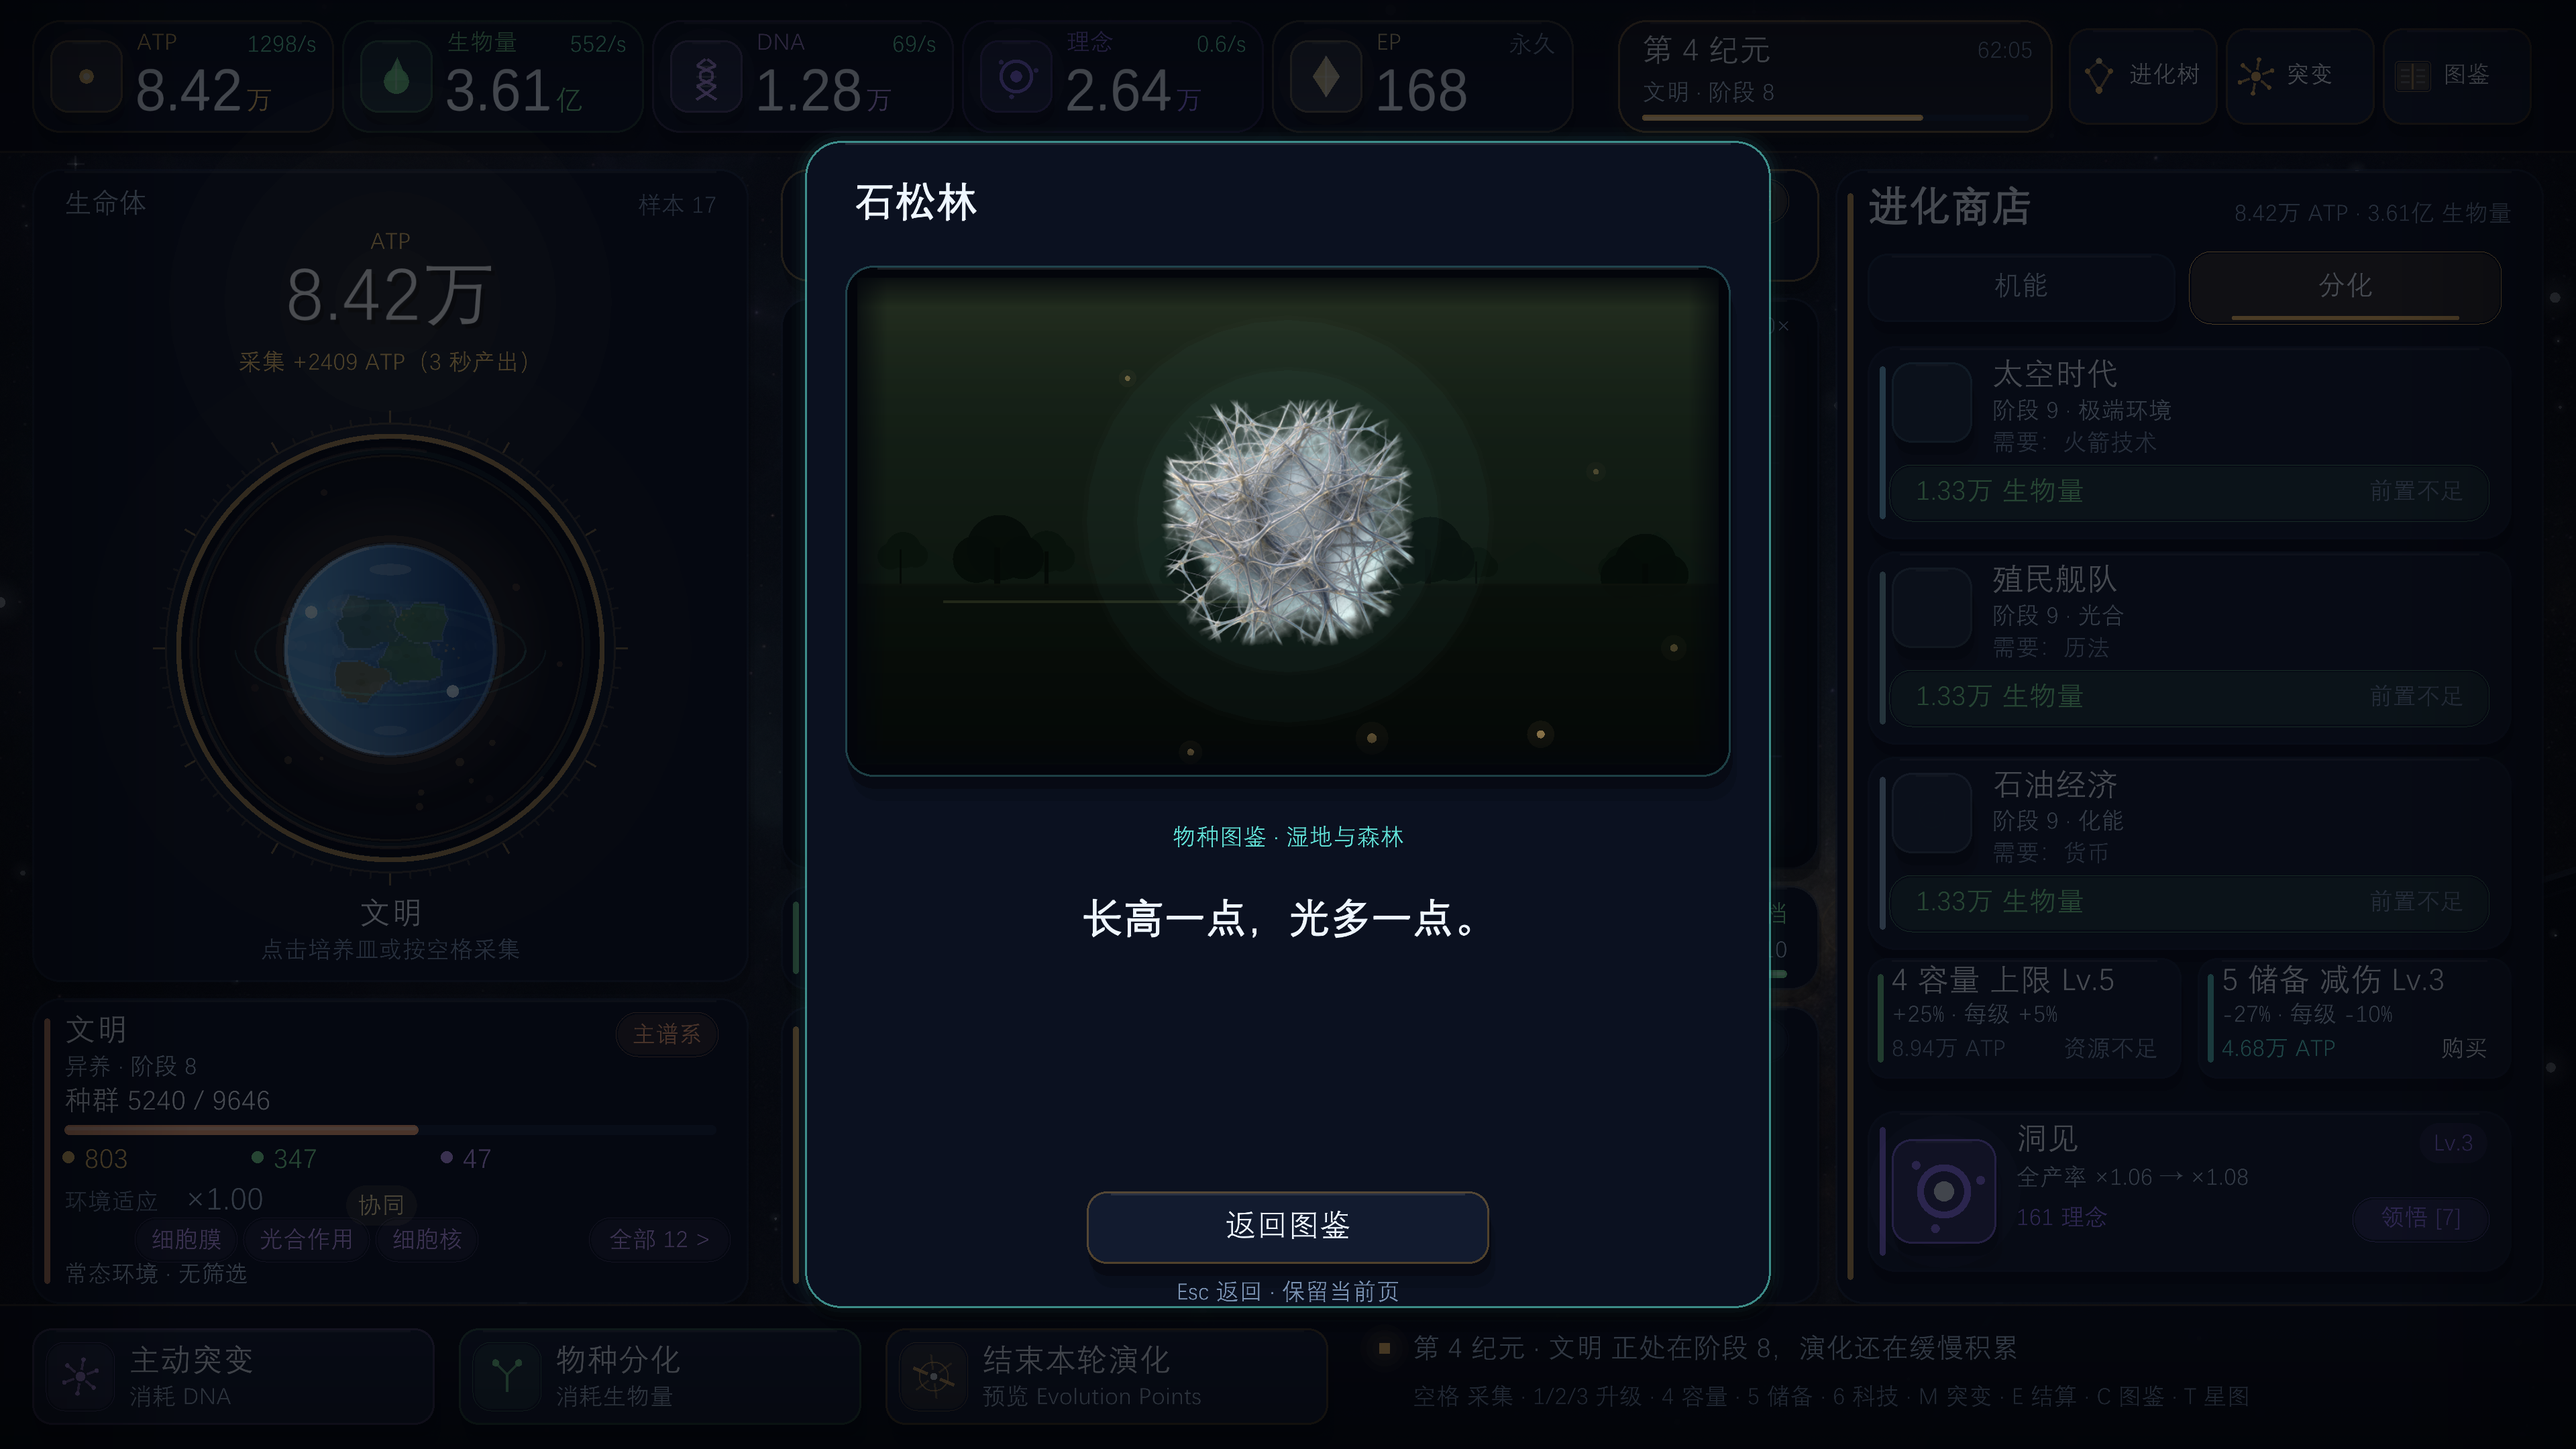
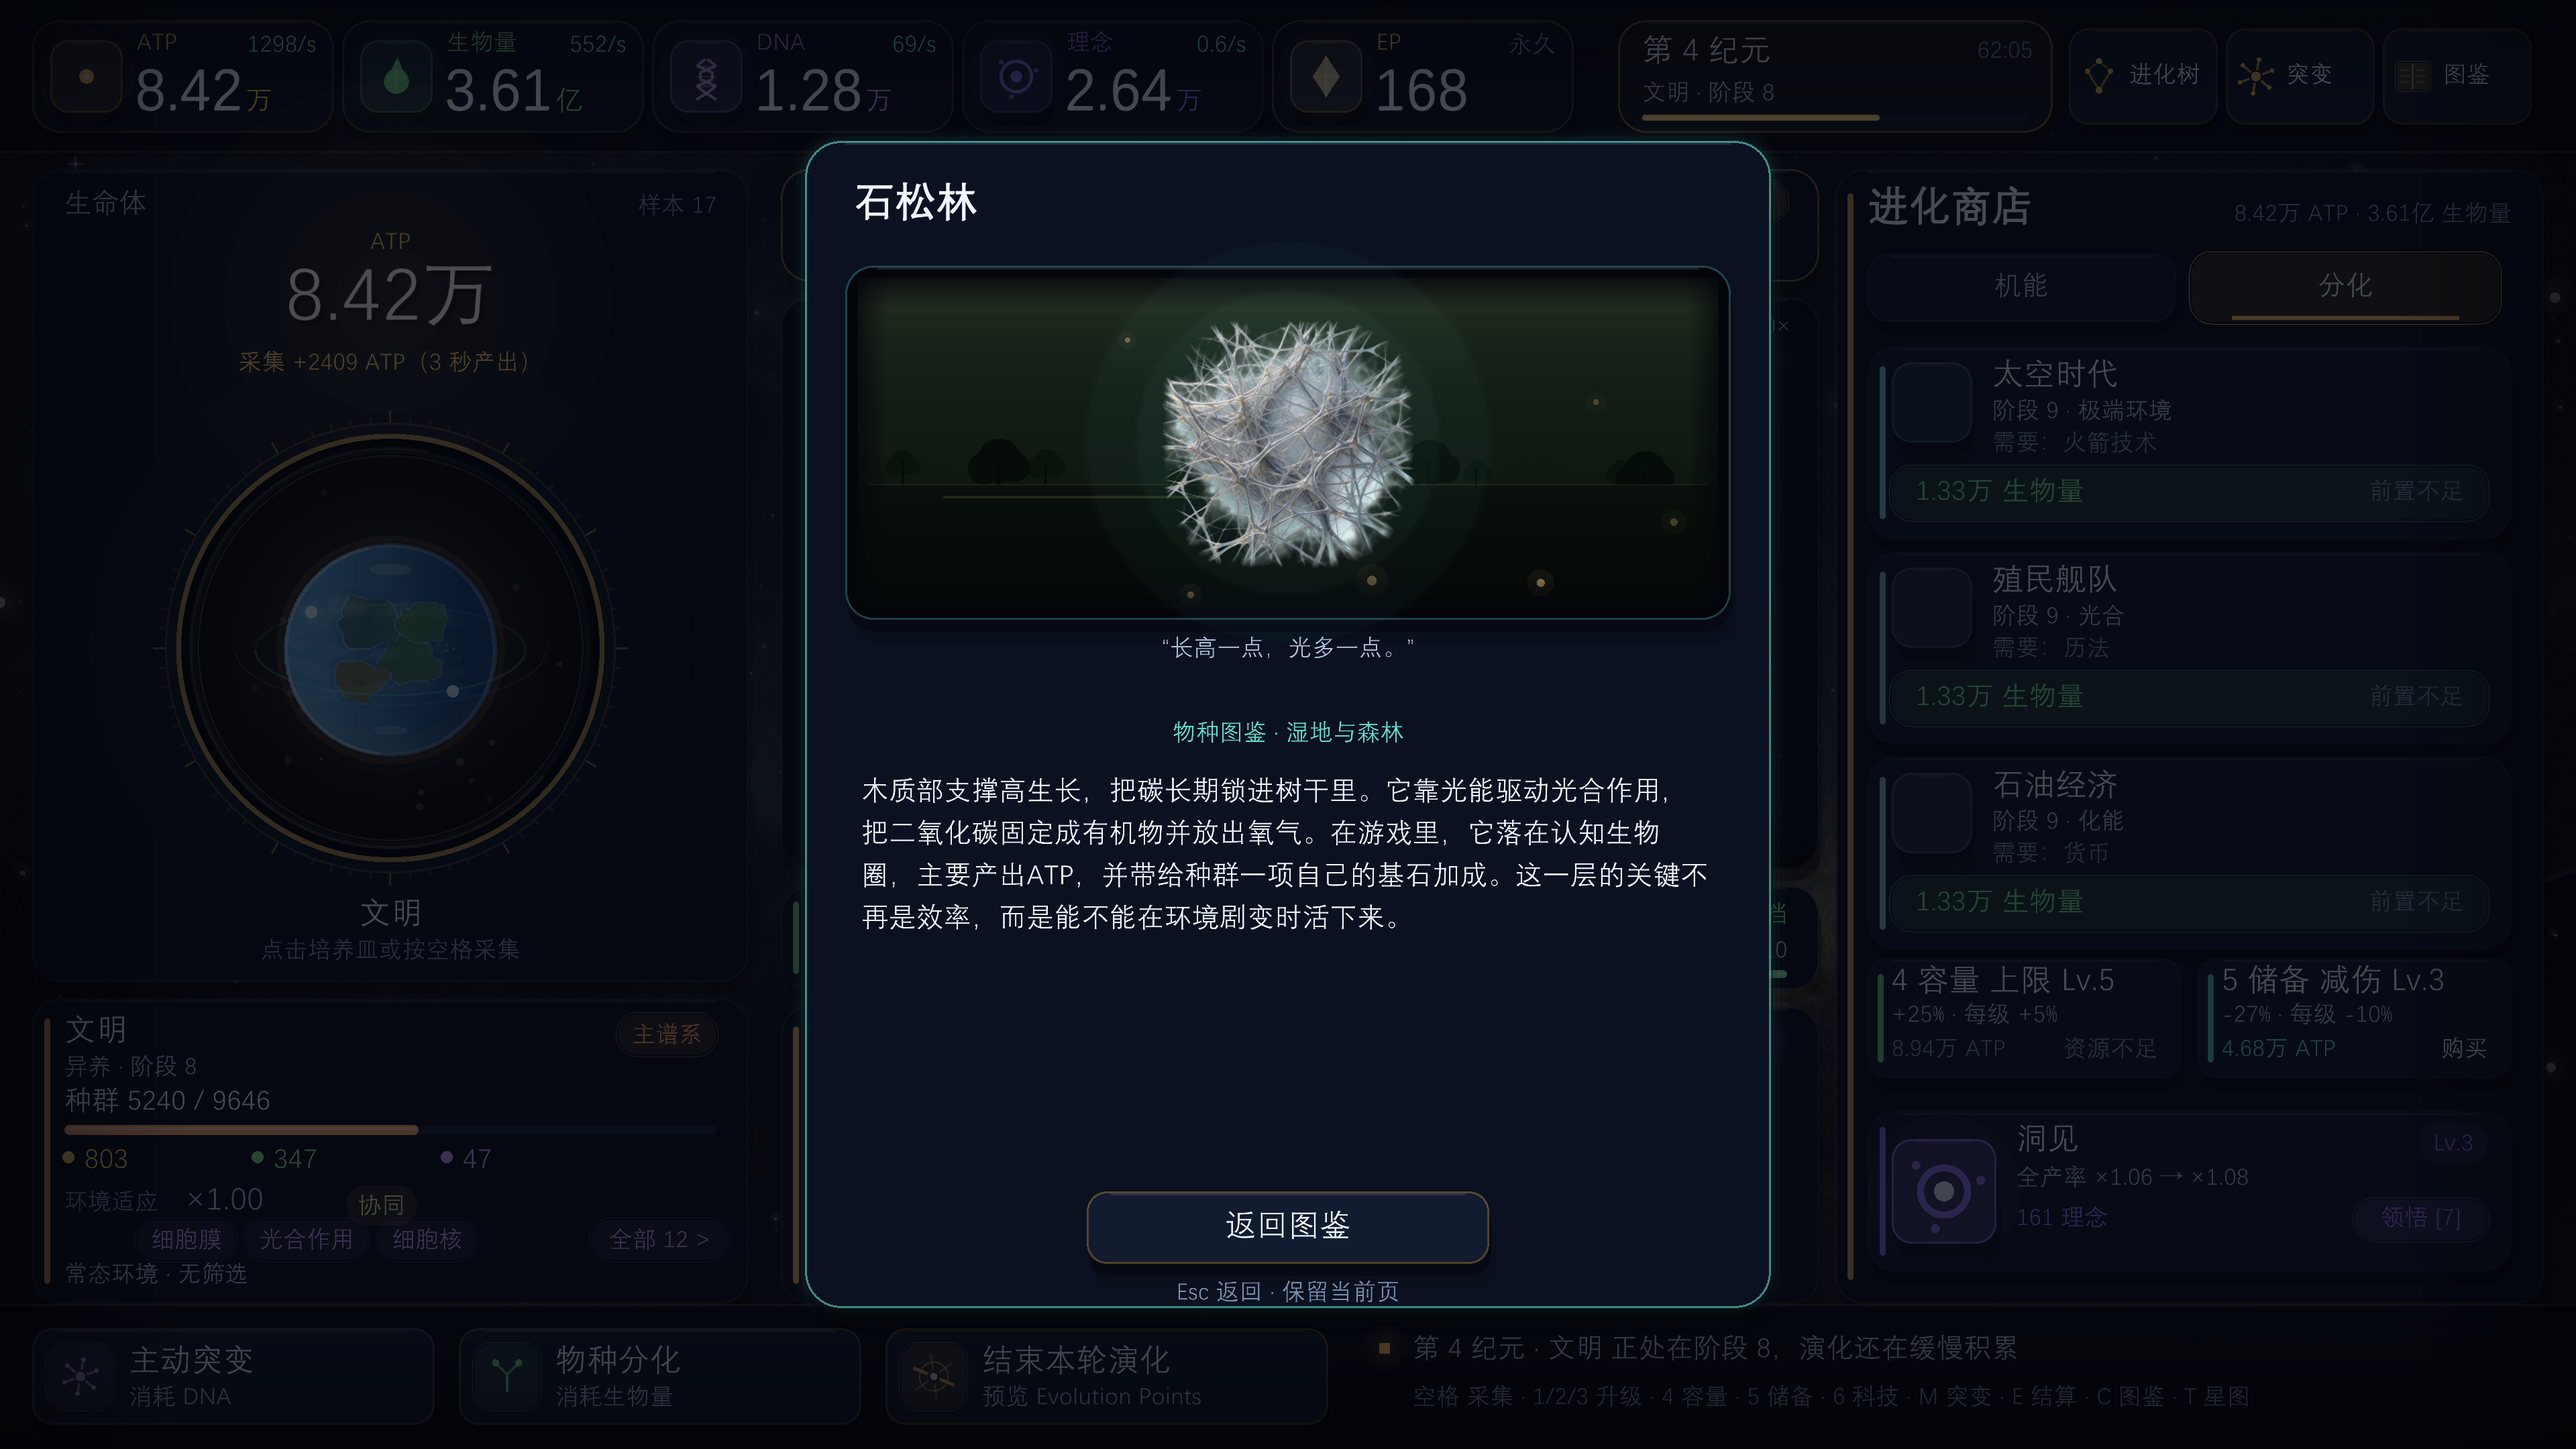
fix(ui): 折行补行首禁则，同步图鉴科普改版
同步远端 09ce818（图鉴科普正文 + 详情页改版，264 物种 / 282 突变各一条
约 100 字正文，大图 254→176 px，codex_science() 只读接口）。该提交以
0a1606b 为父，直接快进，无冲突。

新排版验证：面板 70~650，正文从 panel.y+316 起、8 行 × 21 px 最下沿 477，
返回按钮 592 起，不重叠；正文最长 113 字（≈4 行 / 上限 8 行），全部装得下。

修掉正文上屏后暴露的排版错误：「，主要产出 ATP」逗号顶在行首。
- wrap_text_limited() 原来只按像素断行，不看字符属性。新增 no_line_start()
  禁则表，断行处若下一个字符是 ，。、；：？！）」』】…·— 或收引号，
  就把本行末字一起带到下一行；仅剩一个字时放弃。
- 方向核过一次：开引号「“」与开括号允许起行，禁的是收引号「”」。
- 同一函数被突变卡描述、路线预告、分化卡「后续」行复用，四处一起受益；
  宽度与行数上限不变。
- 新增 screens_line_start_forbidden() 暴露判定表（测试环境没装字形，
  ui_text_w 量不出宽度），test_line_start_forbidden 锁 23 个禁则字符 +
  9 个允许起行字符 + 空串/NULL；实际断行用 4K 截图核对。

验证：0 warning / 0 error；make test 28 组 130,907 项 + 36 项接线 + 集成 +
60 分钟回归 + gameplay + codex 全过；test-layout 10 组全过。
截图仍 34 张，只替换实质变化的 shot_02_mutation 与 shot_04d_codex_habitat
（其余 8 张差异 < 0.002，为渲染亚像素噪声）。单文件 70.5 MB 重建，空目录实测 34 张。

Changed region(s): [[0.3438, 0.4653, 0.6562, 0.6514], [0.375, 0.2171, 0.5625, 0.4653]]

diff --git a/src/screens.c b/src/screens.c
@@ -4526,9 +4526,53 @@ static void trim_row_tail(char *s)
     }
 }
 
+/* UTF-8 起始字节 + 长度 → 码点。只用于判断能否落在行首。 */
+static unsigned int utf8_cp(const char *s, int bytes)
+{
+    const unsigned char *u = (const unsigned char *)s;
+    switch (bytes) {
+    case 1: return u[0];
+    case 2: return ((unsigned int)(u[0] & 0x1Fu) << 6) | (u[1] & 0x3Fu);
+    case 3: return ((unsigned int)(u[0] & 0x0Fu) << 12) | ((unsigned int)(u[1] & 0x3Fu) << 6) |
+                   (u[2] & 0x3Fu);
+    default: return ((unsigned int)(u[0] & 0x07u) << 18) | ((unsigned int)(u[1] & 0x3Fu) << 12) |
+                    ((unsigned int)(u[2] & 0x3Fu) << 6) | (u[3] & 0x3Fu);
+    }
+}
+
+/* 行首禁则（避头尾）：这些标点不能出现在一行的开头，中文正文里尤其明显。
+ * 破折号与省略号同属禁则：贴在行首读起来像上一句还没说完。 */
+static bool no_line_start(unsigned int cp)
+{
+    switch (cp) {
+    case ',': case '.': case ';': case ':': case '?': case '!':
+    case ')': case ']': case '}': case '%':
+    case 0x00B7: /* · */  case 0x2014: /* — */
+    case 0x2019: /* ’ */  case 0x201D: /* ” */
+    case 0x2026: /* … */  case 0x3001: /* 、 */  case 0x3002: /* 。 */
+    case 0x300D: /* 」 */  case 0x300F: /* 』 */  case 0x3011: /* 】 */
+    case 0xFF01: /* ！ */  case 0xFF09: /* ） */  case 0xFF0C: /* ， */
+    case 0xFF1A: /* ： */  case 0xFF1B: /* ； */  case 0xFF1F: /* ？ */
+        return true;
+    default:
+        return false;
+    }
+}
+
+/* 给布局测试的入口：拆出码点再判定，测试里不必装字形 */
+bool screens_line_start_forbidden(const char *utf8_char)
+{
+    if (!utf8_char || !utf8_char[0]) return false;
+    int bytes = 1;
+    while (utf8_char[bytes] && ((unsigned char)utf8_char[bytes] & 0xC0u) == 0x80u) ++bytes;
+    return no_line_start(utf8_cp(utf8_char, bytes));
+}
+
 /* 按实测像素宽度折行（中文逐字宽、数字/百分号更窄，不能按字数估）。
  * 行数用尽时在末行补省略号，必要时从尾部退到 UTF-8 边界再补 —— 卡片是硬边框，
- * 宁可少读两个效果项，也不能让字冲出框外。返回实际行数。 */
+ * 宁可少读两个效果项，也不能让字冲出框外。返回实际行数。
+ * 断行处若正好是「，。、）」这类标点，把本行最后一个字一起带到下一行：
+ * 否则科普正文会出现一行以「，」开头的排版错误。 */
 static int wrap_text_limited(const char *text, float width, float size, int max_rows,
                              char rows[][192])
 {
@@ -4546,9 +4590,31 @@ static int wrap_text_limited(const char *text, float width, float size, int max_
         trial[used + bytes] = '\0';
         if (used > 0 && ui_text_w(trial, size) > width) {
             if (row + 1 >= max_rows) break;   /* 行数用尽：剩下的不要了 */
+            /* 避头尾：下一个字符是标点就别让它顶到行首。把本行末字带下去，
+             * 只有本行仅剩一个字时才放弃（那时怎么断都不好看）。 */
+            char carry[8] = { 0 };
+            int carry_len = 0;
+            if (no_line_start(utf8_cp(p, bytes)) && used > 1) {
+                int k = used - 1;
+                while (k > 0 && ((unsigned char)rows[row][k] & 0xC0u) == 0x80u) --k;
+                if (k > 0) {
+                    carry_len = used - k;
+                    if (carry_len < (int)sizeof(carry)) {
+                        memcpy(carry, rows[row] + k, (size_t)carry_len);
+                        rows[row][k] = '\0';
+                    } else {
+                        carry_len = 0;
+                    }
+                }
+            }
             trim_row_tail(rows[row]);
             ++row;
             used = 0;
+            if (carry_len > 0) {
+                memcpy(rows[row], carry, (size_t)carry_len);
+                used = carry_len;
+                rows[row][used] = '\0';
+            }
         }
         memcpy(rows[row] + used, p, (size_t)bytes);
         used += bytes;

diff --git a/tests/test_ui_layout.c b/tests/test_ui_layout.c
@@ -522,6 +522,34 @@ static void test_next_event_preview(void)
     puts("Next-event preview: no Unknown during events, name forwarded from rules");
 }
 
+/* 避头尾：折行不许把「，。、」这类标点顶到行首。
+ * 图鉴科普正文改版后第一次上屏，「，主要产出 ATP」整行以逗号开头。
+ * 像素宽度在测试环境量不出来（没装字形），所以锁的是判定表本身。 */
+static void test_line_start_forbidden(void)
+{
+    static const char *forbidden[] = {
+        "，", "。", "、", "；", "：", "？", "！", "）", "」", "』", "】", "…", "·", "—", "”",
+        ",", ".", ":", ";", "?", "!", ")", "%"
+    };
+    for (size_t i = 0; i < sizeof(forbidden) / sizeof(forbidden[0]); ++i) {
+        assert(screens_line_start_forbidden(forbidden[i]));
+    }
+
+    /* 正文里的普通字、数字、字母、开括号与开引号都可以起行 */
+    static const char *allowed[] = {
+        "藻", "类", "A", "1", "（", "「", "《", "“", "长"
+    };
+    for (size_t i = 0; i < sizeof(allowed) / sizeof(allowed[0]); ++i) {
+        assert(!screens_line_start_forbidden(allowed[i]));
+    }
+
+    /* 空串与 NULL 不能崩 */
+    assert(!screens_line_start_forbidden(""));
+    assert(!screens_line_start_forbidden(NULL));
+
+    puts("Line-start rule: CJK closing punctuation never starts a row");
+}
+
 int main(void)
 {
     GameState game;
@@ -536,6 +564,7 @@ int main(void)
     test_crisis_pass_line();
     test_ep_rule_text();
     test_next_event_preview();
+    test_line_start_forbidden();
     memset(&g_ui, 0, sizeof g_ui);
     g_ui.overlay = UI_OVL_TREE;
     screens_build(&g_ui.layout, &game, &g_ui);

diff --git a/include/ui_internal.h b/include/ui_internal.h
@@ -361,6 +361,11 @@ typedef struct {
 
 MutListScroll screens_mut_list_scroll_target(const GameState *game, Vector2 mouse);
 
+/* 折行的行首禁则（避头尾）判定：给定一个 UTF-8 字符，问它能否落在行首。
+ * 单独暴露给布局测试用 —— 测试环境没有字形，量不出像素宽度，
+ * 但"哪些标点不许顶行首"这条契约是纯逻辑，可以直接锁住。 */
+bool screens_line_start_forbidden(const char *utf8_char);
+
 /* 调试/截图用：强制切到某个页面或弹层（只在 --shot 模式下由 main.c 调用） */
 void ui_debug_force(UiScreen screen, UiOverlay overlay);
 void ui_debug_set_codex_tab(int tab);

diff --git a/README.md b/README.md
@@ -103,6 +103,15 @@
 - **公式**：主界面显示 `EP = 2E + min(M/3,3) + S + 5×min(C,6) + B · 主动结束不会丢失图鉴`，与结算页逐项相加的结果一致（样张里 16 + 3 + 18 + 15 + 10 = 62）。
 - **产物**：`shot_06_end_era.png` 与 `shot_01_main.png`（情报面板）；`make test-layout` 新增 `test_ep_rule_text`——每行文案与宏逐字一致、公式里不许再出现 `S/2`、危机项必须是 `5×min(C,6)`。
 
+### 折行的行首禁则：标点不许顶到行首（2026-11-28 深夜）
+
+图鉴详情页改版后，科普正文第一次整段上屏就暴露了这个毛病：`石松林` 那条正文第 3 行读作「**，主要产出 ATP……**」——逗号顶在行首。
+
+- **原因**：`wrap_text_limited()` 只按像素宽度断行，断点落在哪个字就在哪断，遇到逗号、句号、顿号、收引号、右括号这类「不能出现在行首」的标点也不管。
+- **改法**：加 `no_line_start()` 判定表，断行时若下一个字符是这类标点，就把本行最后一个字一起带到下一行（避头尾）；只有本行仅剩一个字时才放弃。开引号、开括号、破折号的方向也一并核过——`“` 是允许起行的，禁的是收引号 `”`。
+- **影响面**：同一函数还被突变卡描述、路线预告、分化卡「后续」行复用，四处一起受益；卡片宽度与行数上限不变。
+- **产物**：`shot_04d_codex_habitat.png`（四行正文，无一行以标点开头）与 `shot_02_mutation.png`；`make test-layout` 新增 `test_line_start_forbidden`（23 个禁则字符 + 9 个允许起行字符 + 空串/NULL 不崩）。测试环境没有字形、量不出像素宽度，所以锁的是判定表本身，实际断行用 4K 截图核对。
+
 ### 说明性界面：扩张作用、星图降噪、路线预告（2026-11-27 深夜）
 
 - **容量 / 储备上屏**：原本只有底栏快捷键 `4 容量 · 5 储备`，界面上没有任何按钮，玩家无法知道它们做什么。商店机能/分化页底部现在并列两张扩张小卡：「4 容量 上限 Lv.N · +X% · 每级 +5%」与「5 储备 减伤 Lv.N · -X% · 每级 -6%」，同时显示 ATP 价格和购买状态。价格与百分比全部转发自规则层，界面不复制公式。
